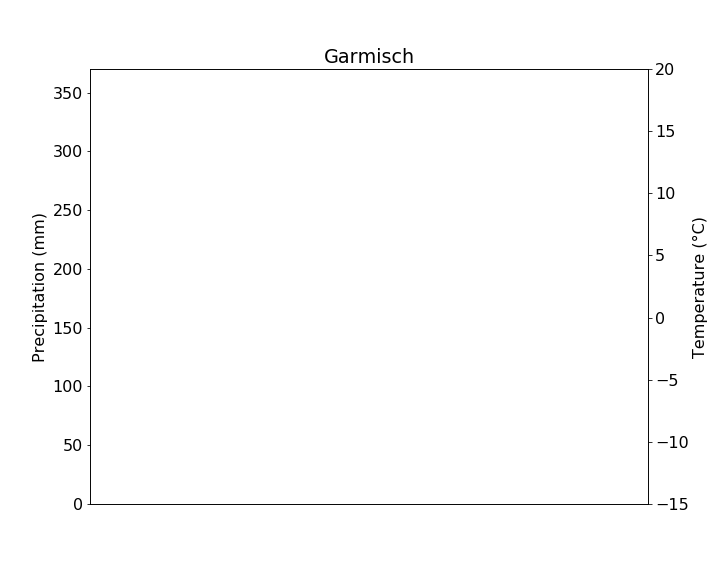
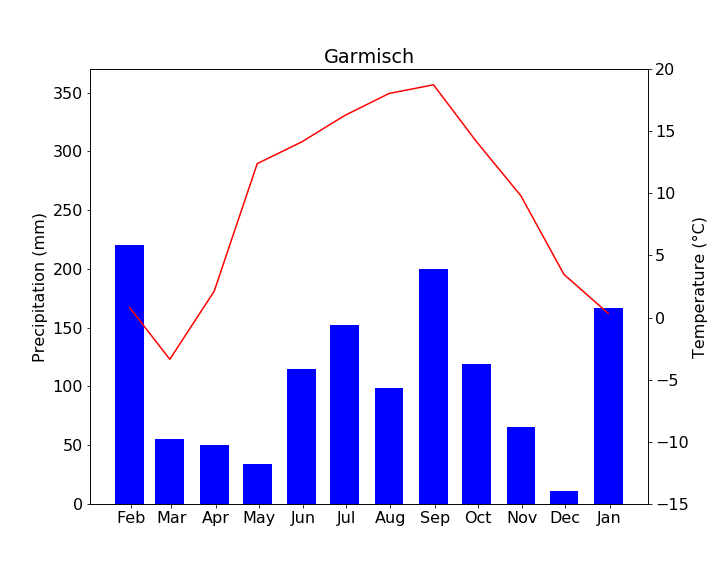
final1

diff --git a/create_climate_diagrams.py b/create_climate_diagrams.py
@@ -62,7 +62,7 @@ def create_climate_diagram(df,
     The figure
     
     """
-    dfplot = df.loc[:,[temp_col,prec_col]].resample("M").agg({temp_col:"mean",prec_col:"sum"})
+    dfplot = df[[temp_col,prec_col]].resample('M').agg({temp_col:'mean',prec_col:'sum'})
     fig = plt.figure(figsize=(10,8))
     plt.rcParams["font.size"] = 16
 
@@ -78,6 +78,9 @@ def create_climate_diagram(df,
     ax2.xaxis.set_major_formatter(monthFmt)
     ax1.xaxis.set_major_locator(days)
     ax1.xaxis.set_major_formatter(monthFmt)
+    
+    ax2.bar(dfplot.index, height=dfplot[prec_col], color="blue", width=20, label="Precipitation")
+    ax1.plot(dfplot[temp_col], color="red", label="Temperature")
     
     # Set appropiate limits to each y-axis using the function arguments: [1P]
     ax2.set_ylim(prec_min, prec_max)
